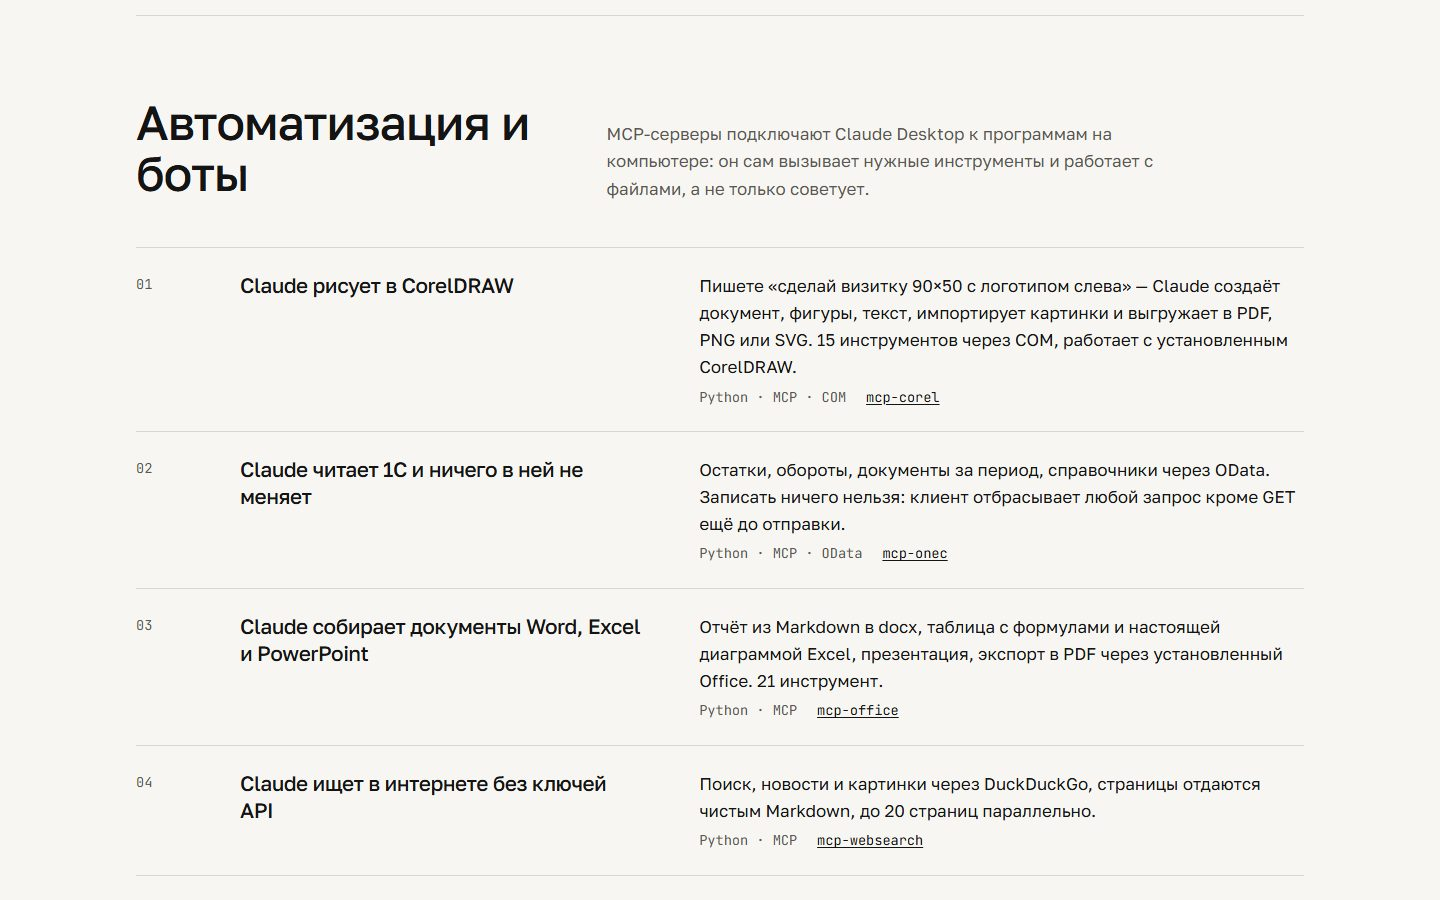
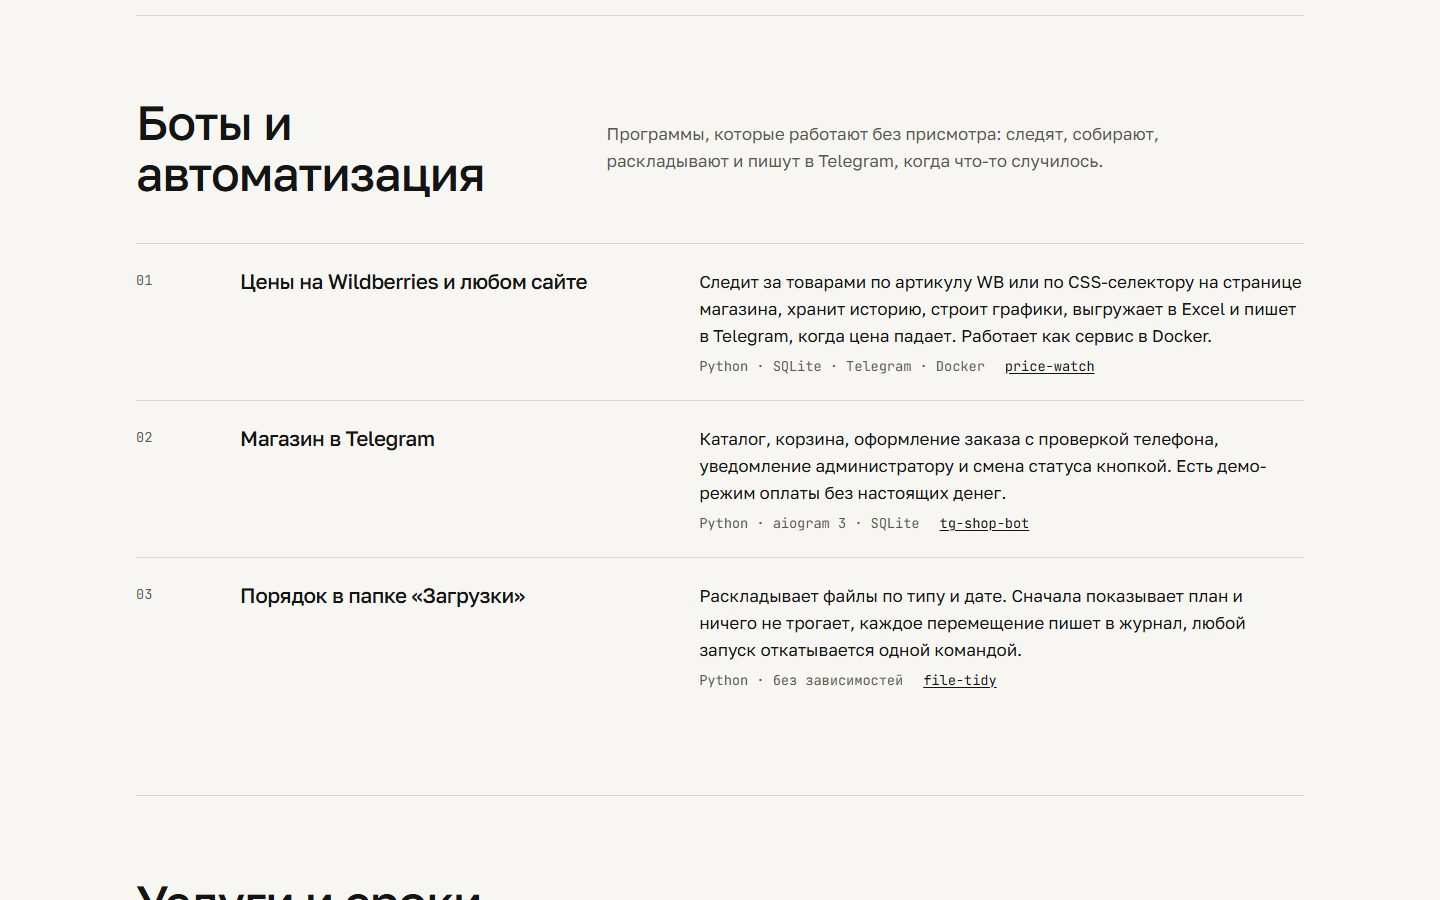
Drop the MCP servers from the portfolio
They were personal tools, not client work. The automation section now shows the price tracker, the shop bot and file-tidy.

diff --git a/index.html b/index.html
@@ -3,12 +3,12 @@
 <head>
   <meta charset="utf-8">
   <meta name="viewport" content="width=device-width, initial-scale=1">
-  <title>zaxdev — сайты, Telegram-боты, парсеры и интеграции с Claude</title>
-  <meta name="description" content="Делаю сайты, Telegram-ботов, парсеры и MCP-серверы, через которые Claude работает с CorelDRAW, 1С и Office. Работы с живыми демо и кодом на GitHub.">
+  <title>zaxdev — сайты, Telegram-боты, парсеры и автоматизация</title>
+  <meta name="description" content="Делаю сайты, Telegram-ботов, парсеры цен и автоматизацию рутины. Работы с живыми демо и кодом на GitHub.">
   <link rel="canonical" href="https://hmsusbusas-png.github.io/zaxdev-portfolio/">
   <meta property="og:type" content="website">
   <meta property="og:locale" content="ru_RU">
-  <meta property="og:title" content="zaxdev — сайты, боты, парсеры, интеграции с Claude">
+  <meta property="og:title" content="zaxdev — сайты, боты, парсеры, автоматизация">
   <meta property="og:description" content="Работы с живыми демо и кодом на GitHub.">
   <meta property="og:url" content="https://hmsusbusas-png.github.io/zaxdev-portfolio/">
   <meta property="og:image" content="https://hmsusbusas-png.github.io/zaxdev-portfolio/og.jpg">
@@ -27,7 +27,7 @@
     <a class="logo" href="./">zaxdev</a>
     <nav class="nav" aria-label="Разделы">
       <a href="#raboty">Сайты</a>
-      <a href="#avtomatizaciya">Автоматизация и боты</a>
+      <a href="#avtomatizaciya">Боты и автоматизация</a>
       <a href="#uslugi">Услуги и сроки</a>
     </nav>
     <a class="top__tg" href="https://t.me/lev_backend">Telegram</a>
@@ -35,7 +35,7 @@
 
   <main id="main">
     <section class="hero" aria-labelledby="hero-title">
-      <h1 id="hero-title">Делаю сайты, Telegram-ботов и&nbsp;интеграции, которые работают у&nbsp;заказчика, а&nbsp;не&nbsp;только в&nbsp;демо.</h1>
+      <h1 id="hero-title">Делаю сайты, Telegram-ботов и&nbsp;парсеры, которые работают у&nbsp;заказчика, а&nbsp;не&nbsp;только в&nbsp;демо.</h1>
       <div class="hero__side">
         <p>Пишу код сам, показываю его целиком: у каждой работы ниже есть живая версия и репозиторий. Отвечаю с 10 до 22 по Москве, обычно в течение часа.</p>
         <p class="hero__actions">
@@ -127,44 +127,24 @@
 
     <section class="auto" id="avtomatizaciya" aria-labelledby="auto-title">
       <div class="section-head">
-        <h2 id="auto-title">Автоматизация и боты</h2>
-        <p>MCP-серверы подключают Claude Desktop к программам на компьютере: он сам вызывает нужные инструменты и работает с файлами, а не только советует.</p>
+        <h2 id="auto-title">Боты и автоматизация</h2>
+        <p>Программы, которые работают без присмотра: следят, собирают, раскладывают и пишут в Telegram, когда что-то случилось.</p>
       </div>
       <ol class="auto__list">
         <li>
-          <h3>Claude рисует в CorelDRAW</h3>
-          <p>Пишете «сделай визитку 90×50 с логотипом слева» — Claude создаёт документ, фигуры, текст, импортирует картинки и выгружает в PDF, PNG или SVG. 15 инструментов через COM, работает с установленным CorelDRAW.</p>
-          <p class="auto__meta"><span>Python · MCP · COM</span><a href="https://github.com/hmsusbusas-png/mcp-corel">mcp-corel</a></p>
-        </li>
-        <li>
-          <h3>Claude читает 1С и ничего в ней не меняет</h3>
-          <p>Остатки, обороты, документы за период, справочники через OData. Записать ничего нельзя: клиент отбрасывает любой запрос кроме GET ещё до отправки.</p>
-          <p class="auto__meta"><span>Python · MCP · OData</span><a href="https://github.com/hmsusbusas-png/mcp-onec">mcp-onec</a></p>
-        </li>
-        <li>
-          <h3>Claude собирает документы Word, Excel и PowerPoint</h3>
-          <p>Отчёт из Markdown в docx, таблица с формулами и настоящей диаграммой Excel, презентация, экспорт в PDF через установленный Office. 21 инструмент.</p>
-          <p class="auto__meta"><span>Python · MCP</span><a href="https://github.com/hmsusbusas-png/mcp-office">mcp-office</a></p>
-        </li>
-        <li>
-          <h3>Claude ищет в интернете без ключей API</h3>
-          <p>Поиск, новости и картинки через DuckDuckGo, страницы отдаются чистым Markdown, до 20 страниц параллельно.</p>
-          <p class="auto__meta"><span>Python · MCP</span><a href="https://github.com/hmsusbusas-png/mcp-websearch">mcp-websearch</a></p>
-        </li>
-        <li>
-          <h3>Claude считает кристаллические структуры</h3>
-          <p>Симметрия, координация, порошковая дифрактограмма, поверхности по индексам Миллера, поиск в Crystallography Open Database и открытие в VESTA.</p>
-          <p class="auto__meta"><span>Python · MCP · pymatgen</span><a href="https://github.com/hmsusbusas-png/mcp-vesta">mcp-vesta</a></p>
-        </li>
-        <li>
           <h3>Цены на Wildberries и любом сайте</h3>
-          <p>Следит за товарами по артикулу WB или по CSS-селектору на странице магазина, хранит историю, строит графики, выгружает в Excel и пишет в Telegram, когда цена падает.</p>
-          <p class="auto__meta"><span>Python · SQLite · Telegram</span><a href="https://github.com/hmsusbusas-png/price-watch">price-watch</a></p>
+          <p>Следит за товарами по артикулу WB или по CSS-селектору на странице магазина, хранит историю, строит графики, выгружает в Excel и пишет в Telegram, когда цена падает. Работает как сервис в Docker.</p>
+          <p class="auto__meta"><span>Python · SQLite · Telegram · Docker</span><a href="https://github.com/hmsusbusas-png/price-watch">price-watch</a></p>
         </li>
         <li>
           <h3>Магазин в Telegram</h3>
-          <p>Каталог, корзина, оформление заказа с проверкой телефона, история заказов и уведомление администратору. Есть демо-режим без настоящих платежей.</p>
+          <p>Каталог, корзина, оформление заказа с проверкой телефона, уведомление администратору и смена статуса кнопкой. Есть демо-режим оплаты без настоящих денег.</p>
           <p class="auto__meta"><span>Python · aiogram 3 · SQLite</span><a href="https://github.com/hmsusbusas-png/tg-shop-bot">tg-shop-bot</a></p>
+        </li>
+        <li>
+          <h3>Порядок в папке «Загрузки»</h3>
+          <p>Раскладывает файлы по типу и дате. Сначала показывает план и ничего не трогает, каждое перемещение пишет в журнал, любой запуск откатывается одной командой.</p>
+          <p class="auto__meta"><span>Python · без зависимостей</span><a href="https://github.com/hmsusbusas-png/file-tidy">file-tidy</a></p>
         </li>
       </ol>
     </section>
@@ -178,7 +158,7 @@
         <div><dt>Лендинг или сайт-визитка</dt><dd>Тексты, вёрстка под телефон, форма заявки, публикация</dd><dd class="services__time">1–2 недели</dd></div>
         <div><dt>Telegram-бот</dt><dd>Заявки, каталог, оплата, уведомления, админка в самом боте</dd><dd class="services__time">от 5 дней</dd></div>
         <div><dt>Парсер или мониторинг цен</dt><dd>Сбор данных с сайтов, выгрузка в Excel или Google Таблицы, уведомления</dd><dd class="services__time">3–7 дней</dd></div>
-        <div><dt>Интеграция Claude с программой</dt><dd>MCP-сервер под вашу программу или базу: 1С, Office, графические редакторы</dd><dd class="services__time">1–2 недели</dd></div>
+        <div><dt>Автоматизация рутины</dt><dd>Скрипты для отчётов, выгрузок и обработки файлов, интеграции через API</dd><dd class="services__time">от 3 дней</dd></div>
         <div><dt>Доработка готового проекта</dt><dd>Исправить ошибки, ускорить, перенести на новый хостинг</dd><dd class="services__time">по объёму</dd></div>
       </dl>
       <p class="services__how">Как работаю: вы описываете задачу, я задаю вопросы и называю срок и цену. Предоплата половина, остальное после сдачи. Правки в течение двух недель после сдачи бесплатно.</p>

diff --git a/README.md b/README.md
@@ -1,14 +1,14 @@
 # zaxdev
 
-Personal portfolio: websites, Telegram bots, scrapers and MCP integrations for Claude.
+Personal portfolio: websites, Telegram bots, scrapers and automation.
 
-Сайт-витрина: кто я, что делаю и как со мной связаться. На первом экране одна фраза и кнопка в Telegram, ниже работы с живыми превью, отдельный раздел про MCP-серверы и ботов, описанных через задачу, услуги со сроками.
+Сайт-витрина: кто я, что делаю и как со мной связаться. На первом экране одна фраза и кнопка в Telegram, ниже работы с живыми превью, отдельный раздел про ботов и автоматизацию, описанных через задачу, услуги со сроками.
 
 Сайт: https://hmsusbusas-png.github.io/zaxdev-portfolio/
 
 ![Первый экран](docs/desktop.jpg)
 
-![Автоматизация и боты](docs/automation.jpg)
+![Боты и автоматизация](docs/automation.jpg)
 
 <img src="docs/mobile.jpg" width="300" alt="Первый экран на телефоне">
 
@@ -17,7 +17,7 @@ Personal portfolio: websites, Telegram bots, scrapers and MCP integrations for C
 - Первый экран: чем занимаюсь, кнопка «Написать в Telegram», ссылка на GitHub.
 - «Сейчас»: pulsewatch, мониторинг сайтов, со скриншотом интерфейса.
 - Пять сайтов: крупное превью в рамке браузера, одна строка о том, чем сайт интересен, ссылки на живую версию и на код.
-- «Автоматизация и боты»: пять MCP-серверов, трекер цен и магазин в Telegram, у каждого заголовок — задача, которую он решает.
+- «Боты и автоматизация»: трекер цен, магазин в Telegram и сортировщик файлов, у каждого заголовок — задача, которую он решает.
 - Услуги и сроки без цен, порядок работы, контакт.
 
 ## Как запустить
